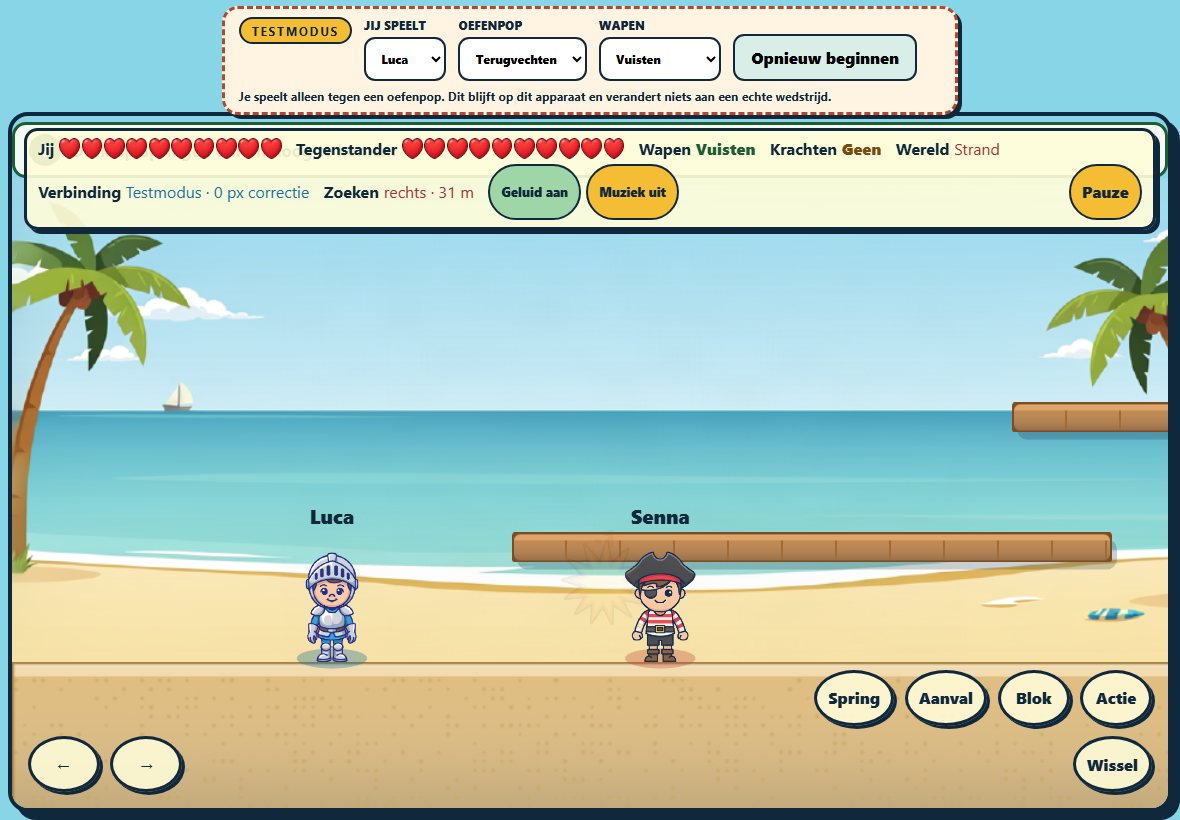
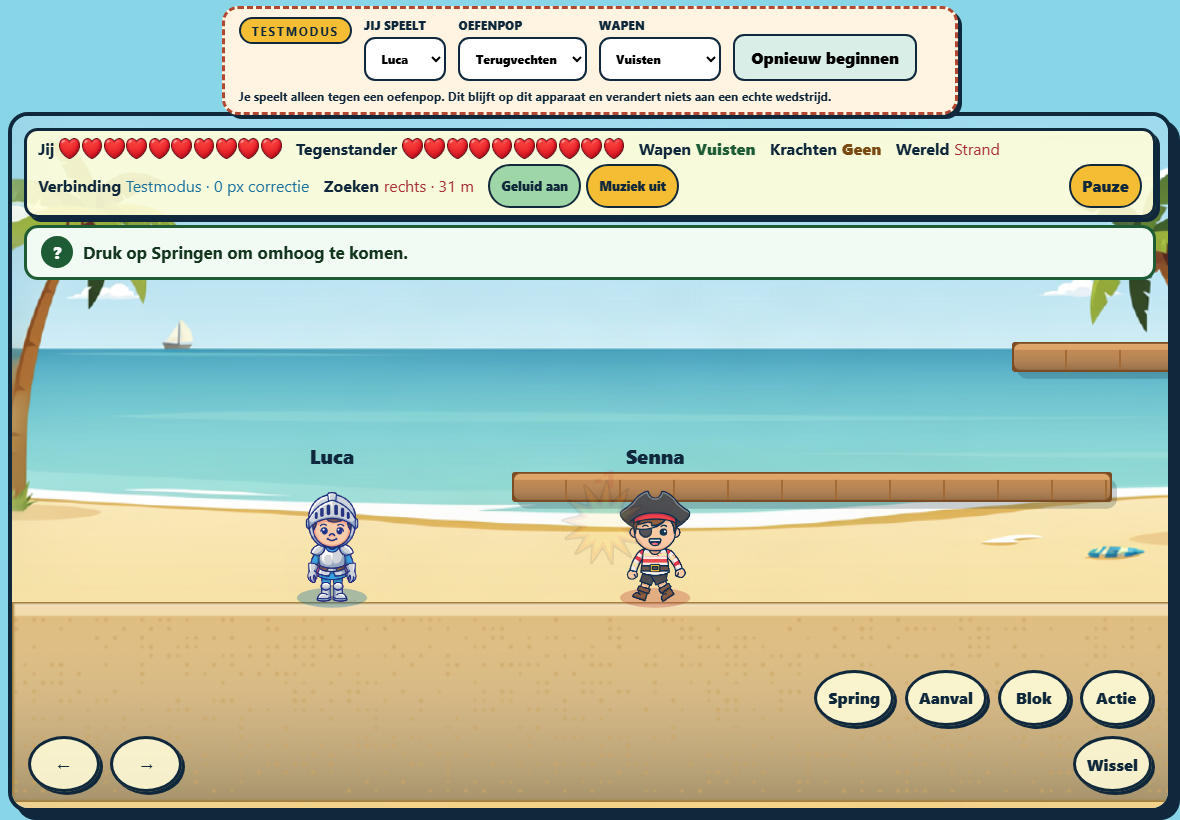
Keep the arena whole and unselectable on an iPad
First play on the children's own iPads exposed two faults that a 16:9
viewport hides completely.

A finger held on a control, which is most of a fight, was read by iPadOS
as the start of a text selection and a callout menu. Selection was
disabled on exactly one element and only in the spelling older iPads do
not implement, and the controls never refused the gesture. Selection is
now off across the page in both spellings, the pincode field is put back
so a grown-up can still pair a device, and the gestures iPadOS starts
before CSS can stop it are refused outright.

The hint line sat in the stage's own flow while the canvas asked for the
whole stage, so the moment a hint appeared the arena was 54 px too tall
for the box that clips it: the ground the children stand on was cut off,
and the hint hid itself behind the status bar. The status bar and the
hint now share one overlay layer above the arena, so the canvas is
simply the stage and a hint costs it nothing.

Measured at 1024x768 in WebKit, the size of a regular iPad on its side.

diff --git a/tests/e2e/ipad.spec.ts b/tests/e2e/ipad.spec.ts
@@ -1,0 +1,116 @@
+import { expect, test } from "@playwright/test";
+
+// The children play on regular 4:3 iPads, which are 1024 by 768 CSS pixels
+// once the tablet is on its side. A 16:9 laptop hides both faults below.
+test.use({ viewport: { width: 1024, height: 768 } });
+
+test("the arena fits the screen while a hint is showing", async ({
+  page,
+}, testInfo) => {
+  await page.goto("/?test=luca");
+  await expect(page.locator("#game-canvas")).toBeVisible();
+  // The hint used to sit in the stage's flow, so it only clipped the arena
+  // once one appeared. Measuring without a hint on screen proves nothing.
+  await expect(page.locator("#hint-line")).toBeVisible();
+
+  const fit = await page.evaluate(() => {
+    const stage = document.getElementById("game-stage")!;
+    const canvas = document.getElementById("game-canvas")!;
+    const status = document.querySelector(".game-hud")!;
+    const hint = document.getElementById("hint-line")!;
+    return {
+      stageOverflow: stage.scrollHeight - stage.clientHeight,
+      pageOverflowY: document.documentElement.scrollHeight - innerHeight,
+      pageOverflowX: document.documentElement.scrollWidth - innerWidth,
+      canvasBelowStage:
+        canvas.getBoundingClientRect().bottom -
+        stage.getBoundingClientRect().bottom,
+      hintUnderStatus:
+        hint.getBoundingClientRect().top -
+        status.getBoundingClientRect().bottom,
+    };
+  });
+
+  // Nothing of the arena is cut off, and the page itself never scrolls.
+  expect(fit.stageOverflow).toBeLessThanOrEqual(0);
+  expect(fit.canvasBelowStage).toBeLessThanOrEqual(0);
+  expect(fit.pageOverflowY).toBeLessThanOrEqual(0);
+  expect(fit.pageOverflowX).toBeLessThanOrEqual(0);
+  // The hint is readable rather than hidden behind the status bar.
+  expect(fit.hintUnderStatus).toBeGreaterThanOrEqual(0);
+
+  // The checkpoint shows what a real match looks like, so the test panel that
+  // only exists to reach this screen without a second iPad is taken away
+  // first. The measurements above kept it, because it makes the fit tighter.
+  if (testInfo.project.name === "chromium") {
+    await page.evaluate(() => {
+      delete document.body.dataset.testMode;
+      document.getElementById("test-panel")?.setAttribute("hidden", "");
+    });
+    await page.screenshot({ path: "docs/checkpoints/phase-10-ipad-fit.png" });
+  }
+});
+
+test("holding or dragging never selects text during a match", async ({
+  page,
+}) => {
+  await page.goto("/?test=luca");
+  await expect(page.locator("#game-canvas")).toBeVisible();
+
+  const styles = await page.evaluate(() => {
+    const read = (selector: string) => {
+      const style = getComputedStyle(document.querySelector(selector)!);
+      // Older iPads only implement the prefixed property, so a build that
+      // sets just the standard one reports nothing here. The matching
+      // -webkit-touch-callout is not readable outside iOS, so it goes
+      // unchecked.
+      return {
+        userSelect:
+          style.getPropertyValue("-webkit-user-select") ||
+          style.getPropertyValue("user-select"),
+      };
+    };
+    return {
+      canvas: read("#game-canvas"),
+      control: read("[data-control]"),
+      status: read(".game-hud strong"),
+    };
+  });
+  expect(styles.canvas.userSelect).toBe("none");
+  expect(styles.control.userSelect).toBe("none");
+  expect(styles.status.userSelect).toBe("none");
+
+  // A drag across the busiest text on screen leaves nothing selected.
+  const status = await page.locator(".game-hud strong").first().boundingBox();
+  if (!status) throw new Error("The status bar has no box to drag across.");
+  await page.mouse.move(status.x + 2, status.y + status.height / 2);
+  await page.mouse.down();
+  await page.mouse.move(status.x + 400, status.y + status.height / 2, {
+    steps: 12,
+  });
+  await page.mouse.up();
+  expect(await page.evaluate(() => String(getSelection()))).toBe("");
+
+  // Whatever the gesture, the browser is told no before it starts one.
+  const refused = await page.evaluate(() =>
+    (["selectstart", "contextmenu", "dragstart"] as const).map((name) => {
+      const event = new Event(name, { bubbles: true, cancelable: true });
+      document.querySelector(".game-hud strong")!.dispatchEvent(event);
+      return event.defaultPrevented;
+    }),
+  );
+  expect(refused).toEqual([true, true, true]);
+});
+
+test("the grown-up can still work the pincode field", async ({ page }) => {
+  await page.goto("/");
+  await expect(page.locator("#admin-pin")).toBeVisible();
+  const selectable = await page.evaluate(() => {
+    const style = getComputedStyle(document.getElementById("admin-pin")!);
+    return (
+      style.getPropertyValue("-webkit-user-select") ||
+      style.getPropertyValue("user-select")
+    );
+  });
+  expect(selectable).not.toBe("none");
+});

diff --git a/index.html b/index.html
@@ -182,60 +182,65 @@
           hidden
           aria-label="Speelveld"
         >
-          <div class="game-hud" aria-label="Spelstatus">
-            <div>
-              <strong>Jij</strong>
-              <span class="hearts" id="own-hearts" role="img"
-                >♥ ♥ ♥ ♥ ♥ ♥ ♥ ♥ ♥ ♥</span
-              >
+          <!-- The status bar and the hint share one overlay layer above the
+               arena, so a hint appearing can never push the canvas out of the
+               stage and clip the ground the children stand on. -->
+          <div class="stage-top">
+            <div class="game-hud" aria-label="Spelstatus">
+              <div>
+                <strong>Jij</strong>
+                <span class="hearts" id="own-hearts" role="img"
+                  >♥ ♥ ♥ ♥ ♥ ♥ ♥ ♥ ♥ ♥</span
+                >
+              </div>
+              <div>
+                <strong>Tegenstander</strong>
+                <span class="hearts" id="peer-hearts" role="img"
+                  >♥ ♥ ♥ ♥ ♥ ♥ ♥ ♥ ♥ ♥</span
+                >
+              </div>
+              <div class="weapon-slot">
+                <strong>Wapen</strong>
+                <span id="weapon-status">Vuisten</span>
+              </div>
+              <div class="effect-slot">
+                <strong>Krachten</strong>
+                <span id="effect-status">Geen</span>
+              </div>
+              <div class="world-slot">
+                <strong>Wereld</strong>
+                <span id="world-status">Strand</span>
+              </div>
+              <div class="quality">
+                <strong>Verbinding</strong>
+                <span id="quality-status">Meten...</span>
+              </div>
+              <div>
+                <strong>Zoeken</strong>
+                <span id="opponent-status">Tegenstander zoeken...</span>
+              </div>
+              <div id="protection-status" hidden>Veilig na terugkeer</div>
+              <div class="sound-controls">
+                <button id="effects-toggle" type="button" aria-pressed="false">
+                  Geluid aan
+                </button>
+                <button id="music-toggle" type="button" aria-pressed="false">
+                  Muziek uit
+                </button>
+              </div>
+              <button id="pause-button" type="button">Pauze</button>
             </div>
-            <div>
-              <strong>Tegenstander</strong>
-              <span class="hearts" id="peer-hearts" role="img"
-                >♥ ♥ ♥ ♥ ♥ ♥ ♥ ♥ ♥ ♥</span
-              >
-            </div>
-            <div class="weapon-slot">
-              <strong>Wapen</strong>
-              <span id="weapon-status">Vuisten</span>
-            </div>
-            <div class="effect-slot">
-              <strong>Krachten</strong>
-              <span id="effect-status">Geen</span>
-            </div>
-            <div class="world-slot">
-              <strong>Wereld</strong>
-              <span id="world-status">Strand</span>
-            </div>
-            <div class="quality">
-              <strong>Verbinding</strong>
-              <span id="quality-status">Meten...</span>
-            </div>
-            <div>
-              <strong>Zoeken</strong>
-              <span id="opponent-status">Tegenstander zoeken...</span>
-            </div>
-            <div id="protection-status" hidden>Veilig na terugkeer</div>
-            <div class="sound-controls">
-              <button id="effects-toggle" type="button" aria-pressed="false">
-                Geluid aan
-              </button>
-              <button id="music-toggle" type="button" aria-pressed="false">
-                Muziek uit
-              </button>
-            </div>
-            <button id="pause-button" type="button">Pauze</button>
+            <p
+              id="hint-line"
+              class="hint"
+              role="status"
+              aria-live="polite"
+              hidden
+            >
+              <span class="hint-icon" aria-hidden="true">?</span>
+              <span id="hint-text"></span>
+            </p>
           </div>
-          <p
-            id="hint-line"
-            class="hint"
-            role="status"
-            aria-live="polite"
-            hidden
-          >
-            <span class="hint-icon" aria-hidden="true">?</span>
-            <span id="hint-text"></span>
-          </p>
           <canvas
             id="game-canvas"
             aria-label="Arena met Luca en Senna"

diff --git a/src/style.css b/src/style.css
@@ -16,9 +16,23 @@ body {
   /* A child dragging on the arena must not pull the page around or trigger the
      browser's own pull-to-refresh and swipe-back gestures. */
   overscroll-behavior: none;
+  /* Nothing here is text to read and copy; every press is a move in a game. An
+     iPad turns a held finger into a text selection and a callout menu unless it
+     is told otherwise, and older iPads only understand the prefixed spellings.
+     The one exception is the pincode field, restored below. */
+  -webkit-user-select: none;
+  user-select: none;
+  -webkit-touch-callout: none;
+  -webkit-tap-highlight-color: transparent;
   background:
     radial-gradient(circle at 80% 10%, #ffd866 0 11rem, transparent 11.2rem),
     linear-gradient(135deg, #f7f0dd, #cfe9df);
+}
+/* A grown-up typing the pincode still needs to be able to place a cursor. */
+input,
+textarea {
+  -webkit-user-select: text;
+  user-select: text;
 }
 button,
 input {
@@ -408,12 +422,23 @@ legend,
   width: 100%;
   height: min(70vh, 760px);
 }
-.game-hud {
+/* Everything that floats above the arena, stacked in one column. Keeping the
+   hint out of the stage's flow is what stops it from shrinking the canvas and
+   clipping the bottom of the world; the canvas can then simply be the stage. */
+.stage-top {
   position: absolute;
   z-index: 2;
   inset: max(0.75rem, env(safe-area-inset-top))
     max(0.75rem, env(safe-area-inset-right)) auto
     max(0.75rem, env(safe-area-inset-left));
+  display: grid;
+  gap: 0.4rem;
+  /* Only the status bar itself catches a finger. The rest of this strip is
+     arena, and a drag that starts there still moves a child. */
+  pointer-events: none;
+}
+.game-hud {
+  pointer-events: auto;
   display: flex;
   flex-wrap: wrap;
   align-items: center;
@@ -499,6 +524,9 @@ legend,
   background: #9fd6a8;
 }
 .game-hud button {
+  /* The status bar covers the sky, and on a 4:3 iPad there is not much of it.
+     44 pixels is the smallest a finger target may be, so it is what these are. */
+  min-height: 2.75rem;
   margin-left: auto;
   padding: 0.3rem 0.7rem;
   border: 2px solid #10283b;
@@ -714,6 +742,17 @@ body[data-test-mode="aan"] .player-view[data-phase="finished"] {
   margin-top: 0;
 }
 
+/* On an iPad the browser's own toolbar is part of the 100vh that CSS reports,
+   so a lobby asked to be exactly that tall ends up taller than the screen and
+   scrolls a little under every finger. Where the browser knows the honest
+   height, use it. */
+@supports (min-height: 100dvh) {
+  body,
+  .shell {
+    min-height: 100dvh;
+  }
+}
+
 @media (prefers-reduced-motion: reduce) {
   *,
   *::before,
@@ -730,7 +769,7 @@ body[data-test-mode="aan"] .player-view[data-phase="finished"] {
   display: flex;
   align-items: center;
   gap: 0.6rem;
-  margin: 0.4rem 0 0;
+  margin: 0;
   padding: 0.55rem 0.9rem;
   border: 3px solid #1d5c34;
   border-radius: 14px;

diff --git a/src/main.ts b/src/main.ts
@@ -757,10 +757,31 @@ for (const button of document.querySelectorAll<HTMLButtonElement>(
 )) {
   const action = button.dataset.control as ControlAction;
   button.addEventListener("pointerdown", (event) => {
+    // A control is held down, often for seconds at a time. Left to itself an
+    // iPad reads that as the start of a text selection or a callout menu, and
+    // the child is suddenly fighting the browser instead of the other player.
+    event.preventDefault();
     if (event.isPrimary) button.setPointerCapture(event.pointerId);
     inputMapper.press(`pointer:${event.pointerId}`, action);
     sendInput();
   });
+}
+
+// Disabling selection in CSS is not enough on iPadOS: a long press or a
+// two-finger sweep still begins one. Outside a text field there is nothing here
+// worth selecting, so the gesture is refused wherever it starts.
+function refuseSelection(event: Event): void {
+  const target = event.target;
+  if (
+    target instanceof HTMLInputElement ||
+    target instanceof HTMLTextAreaElement
+  )
+    return;
+  event.preventDefault();
+}
+
+for (const eventName of ["selectstart", "contextmenu", "dragstart"] as const) {
+  document.addEventListener(eventName, refuseSelection);
 }
 
 // The release is heard on the window, not on the button. A finger that slides

diff --git a/docs/PLAN.md b/docs/PLAN.md
@@ -4,12 +4,12 @@ This is the durable execution record for implementing [`PRD.md`](./PRD.md). It i
 
 ## Status
 
-- Last updated: 2026-08-20
-- Overall status: Feature complete and deployed; waiting on the two physical iPads
+- Last updated: 2026-08-21
+- Overall status: Feature complete and deployed; the children have now played on their own iPads and the two defects that first play exposed are fixed and waiting to be deployed
 - Current phase: Phase 10 - Final headless acceptance, deployment, and physical release. Phase 11 (animated player sprites) was added afterwards at the owner's request and is complete.
 - Implementation progress: 11 of 12 phases complete; Phase 11 was added at the owner's request after Phase 10
 - Current blocker: None for the automated part of Phase 10. Two items need the physical devices: the exact target iPad model identifiers, and the unassisted first-use and frame-rate measurements on them.
-- Next action: Pair the two iPads with the production pin, then run the observed first-use and full-match journeys and record the device identifiers, time to start, comprehension, multi-touch, frame rate, and latency. Everything that can be checked without a device is done and deployed on schema v8.
+- Next action: Deploy the iPad layout and selection fix, then confirm on the devices that a held control no longer selects text and that the arena reaches the bottom of the screen. After that, pair the two iPads with the production pin and run the observed first-use and full-match journeys, recording the device identifiers, time to start, comprehension, multi-touch, frame rate, and latency.
 
 Status values used below:
 
@@ -441,7 +441,11 @@ redo finished work:
   Only pairing the two physical iPads remains, which is the owner's action.
 - The unassisted first-use and full-match observation, the multi-touch check,
   and the frame rate and latency on the devices themselves need the iPads and
-  the two children.
+  the two children. First play on the devices happened on 2026-08-21 and
+  reported two faults, both fixed and covered by `tests/e2e/ipad.spec.ts`: a
+  held control started a text selection, and the arena was clipped at the
+  bottom. Neither is visible on a 16:9 viewport, so the observation itself is
+  still owed once the fix is deployed.
 - The known limitations and the balance values are recorded in the README. The
   PRD implementation status stays open until the two device items above pass,
   because it is a statement about the finished product, not about the code.
@@ -654,6 +658,9 @@ Append concise entries as work is verified. Do not replace prior evidence.
 | 2026-08-20 | Phase 8 | Lifecycle browser journeys | Passed in Chromium and WebKit: a named pause needing both players, a real network outage that freezes both sides and recovers, and a winner overlay with rematch consent and a reset to the other chooser | `tests/e2e/lifecycle.spec.ts`, `docs/checkpoints/phase-08-winner.png` |
 | 2026-08-20 | Phase 8 | Disconnect soak | Passed: repeated disconnect and recovery cycles with both clients convergent on the same tick after every recovery, no duplicate entities, and health always inside bounds; the soak surfaced two real defects, both fixed | `tests/e2e/soak.spec.ts`, `docs/checkpoints/phase-08.md` |
 | 2026-08-20 | Phase 8 | `npm run check` | Passed: 172 unit, 10 Node integration, 11 Worker integration tests, formatting, typed lint, three-runtime type checks, and production build | `docs/checkpoints/phase-08.md` |
+| 2026-08-21 | Phase 10 device feedback | iPad-sized layout measurement at 1024x768 in WebKit | Reproduced then fixed: the stage overflowed its own box by 54 px with a hint showing and the canvas ended 58 px below the visible stage, and the hint's box sat inside the status bar's. After the fix the overflow is 0, the canvas ends inside the stage, and the hint starts below the status bar | `tests/e2e/ipad.spec.ts`, `docs/checkpoints/phase-10-ipad-fit.png` |
+| 2026-08-21 | Phase 10 device feedback | iPad selection gesture checks | Passed: the canvas, the controls, and the status bar all report `-webkit-user-select: none`, a drag across the status bar leaves the selection empty, `selectstart`, `contextmenu` and `dragstart` are all refused, and the pincode field is still selectable so a grown-up can pair a device | `tests/e2e/ipad.spec.ts` |
+| 2026-08-21 | Phase 10 device feedback | `npm run check`, `npm run test:e2e`, `npm run test:e2e:webkit` | Passed: 247 unit, 10 Node, 14 Worker tests, formatting, typed lint, three-runtime type checks, production build, and 30 Chromium plus 28 WebKit journeys with the 2 pre-existing WebKit skips | Local command output |
 
 ## Session Log
 
@@ -686,3 +693,4 @@ Append one row at session start and update its outcome before session end.
 | 2026-08-20 | Phase 9 | Gave all six worlds their own validated geometry, added named lifts to the city with cooldown and safe arrival, added one-at-a-time Dutch hints that stop once a control is used, centralised and audited every Dutch label, added a pause cue, and ran automated accessibility and performance passes. | Complete and verified. `npm run check` (228 unit, 10 Node, 12 Worker) and 43 journeys in both engines pass; frame reports are in `docs/checkpoints/`. Restart at Phase 10's first unchecked task; inspect `docs/checkpoints/phase-09.md`. |
 | 2026-08-20 | Phase 8 hardening | Fixed three defects the winner journey exposed: a finished match was reported to nobody when its last tick fell between two snapshots, a tap shorter than one tick was dropped, and a control release that missed its button stayed held forever. Added regression tests for all three. | Complete and verified. `npm run check` (173 unit, 10 Node, 12 Worker), both browser engines, and the disconnect soak pass; the previously intermittent winner journey passed three consecutive chain runs. Restart at Phase 9's first unchecked task. |
 | 2026-08-20 | Phase 8 | Implemented the whole lifecycle: one Dutch overlay for every interruption, pause with requester and reason, input heartbeats with a symmetric connection freeze and offline escalation, reconnect reconciliation, winner overlay with rematch consent and exhaustive reset, divergence recovery, and a checkpoint drain that keeps credential generations. | Complete and verified. `npm run check`, both browser engines, and a disconnect soak pass. Restart at Phase 9's first unchecked task; inspect `docs/checkpoints/phase-08.md`. |
+| 2026-08-21 | Phase 10 device feedback | Fixed the two faults the children's first play on their own iPads exposed: a held control or a finger resting on the status bar started a text selection and a callout menu, and the hint line sat in the stage's flow so an appearing hint clipped 58 px off the bottom of the arena and hid itself behind the status bar. Moved the status bar and hint into one overlay layer, disabled selection in both the prefixed and standard spellings, and refused the selection gestures iPadOS starts before CSS can stop them. | Complete and verified. `npm run check` (247 unit, 10 Node, 14 Worker), 30 Chromium and 28 WebKit journeys (2 pre-existing WebKit skips) pass, including three new iPad-sized regressions. Restart at Phase 10's first unchecked task; the fix still has to be deployed and then seen on the devices. |
